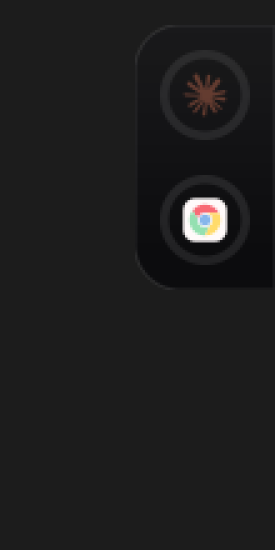
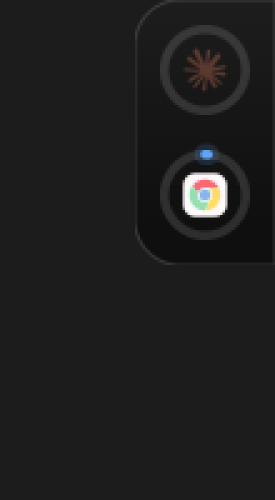
Translucent panel, and stop sending tokens already known to be dead
The panel takes its opacity from LINOTCH_OPACITY (default 0.74), clamped at
0.35 — below that the text stops being readable over a light window.

The bigger fix is behind it. `expiresAt` in the credential file was read only to
word the error message; the request went out regardless, earned a 401, and
repeated failed auth is precisely what the usage endpoint answers with a
Retry-After measured in hours. So a stale credential was manufacturing the rate
limit that then also blocked the request that would have worked after a refresh.
A token whose own expiry has passed is now not sent at all, and Error::Expired
says what actually fixes it.

diff --git a/src/providers.rs b/src/providers.rs
@@ -29,9 +29,11 @@ pub struct Window {
 pub enum Error {
     /// No usable credential on this machine. Not a failure — the tool is signed out.
     NoCredential,
-    /// A credential exists but the vendor refused it. Kept apart from NoCredential
-    /// because the fix is different: this one is "use the tool once so it refreshes".
-    Rejected { code: u16, expired: bool },
+    /// The stored token's own expiry has passed. Detected locally — no request is
+    /// sent, see `Claude::read`.
+    Expired,
+    /// A credential looked current but the vendor refused it anyway.
+    Rejected { code: u16 },
     /// HTTP 429. `retry_after` is the vendor's own Retry-After in seconds — it is
     /// routinely far longer than any backoff we would guess (half an hour, where
     /// our cap was fifteen minutes), and ignoring it just keeps the limit alive.
@@ -43,11 +45,8 @@ impl std::fmt::Display for Error {
     fn fmt(&self, f: &mut std::fmt::Formatter<'_>) -> std::fmt::Result {
         match self {
             Error::NoCredential => write!(f, "signed out"),
-            Error::Rejected { code, expired: true } => write!(
-                f,
-                "token expired ({code}) — run the tool once and it refreshes"
-            ),
-            Error::Rejected { code, expired: false } => {
+            Error::Expired => write!(f, "token expired — run `claude` once to refresh it"),
+            Error::Rejected { code } => {
                 write!(f, "token rejected ({code}) — sign in with the tool itself")
             }
             Error::RateLimited { retry_after: Some(s) } => {
@@ -124,14 +123,14 @@ fn agent() -> ureq::Agent {
 /// for one reason: a 429's `Retry-After` header only survives if the response object
 /// does, and that header is the difference between backing off correctly and
 /// hammering a limit until it renews itself.
-fn interpret(resp: &mut ureq::http::Response<ureq::Body>, expired: bool) -> Result<Value, Error> {
+fn interpret(resp: &mut ureq::http::Response<ureq::Body>) -> Result<Value, Error> {
     let code = resp.status().as_u16();
     match code {
         200..=299 => resp
             .body_mut()
             .read_json()
             .map_err(|e| Error::Other(format!("parse: {e}"))),
-        401 | 403 => Err(Error::Rejected { code, expired }),
+        401 | 403 => Err(Error::Rejected { code }),
         429 => Err(Error::RateLimited {
             retry_after: resp
                 .headers()
@@ -195,13 +194,21 @@ impl Provider for Claude {
 
     fn read(&self) -> Result<Vec<Window>, Error> {
         let (token, expired) = Self::credential().ok_or(Error::NoCredential)?;
+        if expired {
+            // Do not send it. The reply would be a 401, and repeated failed auth is
+            // exactly what this endpoint answers with a rate limit — which then also
+            // blocks the request that *would* have worked once the token is
+            // refreshed. Re-reading the file is free, so this costs nothing to
+            // recover from.
+            return Err(Error::Expired);
+        }
         let mut resp = agent()
             .get("https://api.anthropic.com/api/oauth/usage")
             .header("Authorization", &format!("Bearer {token}"))
             .header("anthropic-beta", "oauth-2025-04-20")
             .call()
             .map_err(|e| Error::Other(e.to_string()))?;
-        let v = interpret(&mut resp, expired)?;
+        let v = interpret(&mut resp)?;
 
         let mut out = Vec::new();
         if let Some(arr) = v.get("limits").and_then(|x| x.as_array()) {
@@ -300,7 +307,7 @@ impl Provider for Codex {
             )
             .call()
             .map_err(|e| Error::Other(e.to_string()))?;
-        let v = interpret(&mut resp, false)?;
+        let v = interpret(&mut resp)?;
 
         let rl = v.get("rate_limit").unwrap_or(&v);
         let now = now_secs();

diff --git a/src/draw.rs b/src/draw.rs
@@ -29,12 +29,29 @@ const ROW_H: f64 = 36.0;
 const HEAD_H: f64 = 30.0;
 
 // One palette, so a colour is never invented halfway down the file.
-const BG: (f64, f64, f64, f64) = (0.043, 0.043, 0.051, 0.94);
-const HAIRLINE: (f64, f64, f64, f64) = (1.0, 1.0, 1.0, 0.10);
-const TRACK: (f64, f64, f64, f64) = (1.0, 1.0, 1.0, 0.09);
+const BG_RGB: (f64, f64, f64) = (0.043, 0.043, 0.051);
+const DEFAULT_OPACITY: f64 = 0.74;
+const HAIRLINE: (f64, f64, f64, f64) = (1.0, 1.0, 1.0, 0.15);
+const TRACK: (f64, f64, f64, f64) = (1.0, 1.0, 1.0, 0.13);
 const INK: (f64, f64, f64, f64) = (1.0, 1.0, 1.0, 0.95);
 const INK_DIM: (f64, f64, f64, f64) = (1.0, 1.0, 1.0, 0.44);
 const DIVIDER: (f64, f64, f64, f64) = (1.0, 1.0, 1.0, 0.07);
+
+/// Panel opacity, set once from the environment. A single read point rather than a
+/// parameter threaded through every drawing function, because nothing changes it
+/// after startup.
+static OPACITY: std::sync::OnceLock<f64> = std::sync::OnceLock::new();
+
+/// Clamped, not free: below about 0.35 the text stops being readable over a light
+/// window, and a notch nobody can read is not a notch.
+pub fn set_opacity(v: f64) {
+    let _ = OPACITY.set(v.clamp(0.35, 1.0));
+}
+
+fn bg() -> (f64, f64, f64, f64) {
+    let (r, g, b) = BG_RGB;
+    (r, g, b, *OPACITY.get().unwrap_or(&DEFAULT_OPACITY))
+}
 
 #[derive(Clone, Copy, Debug, PartialEq)]
 pub struct Rect {
@@ -156,7 +173,7 @@ fn rgba(cr: &cairo::Context, c: (f64, f64, f64, f64)) {
 /// rectangle" from "a surface".
 fn panel(cr: &cairo::Context, rect: Rect, corners: (f64, f64, f64, f64)) {
     rounded(cr, rect, corners);
-    rgba(cr, BG);
+    rgba(cr, bg());
     let _ = cr.fill_preserve();
     // A short fall of light from the top edge. Flat fill plus hairline reads as a
     // rectangle; this reads as a surface with a direction to it.
@@ -513,8 +530,20 @@ fn preview() {
     // draw() clears its own clip first, so the backdrop goes on underneath at the
     // end rather than being painted first and wiped.
     cr.set_operator(cairo::Operator::DestOver);
-    cr.set_source_rgb(0.13, 0.14, 0.16);
+    // Something with structure behind the panels, or "transparent" and "dark grey"
+    // look identical.
+    let g = cairo::LinearGradient::new(0.0, 0.0, w as f64, h as f64);
+    g.add_color_stop_rgb(0.0, 0.16, 0.18, 0.24);
+    g.add_color_stop_rgb(0.5, 0.35, 0.24, 0.30);
+    g.add_color_stop_rgb(1.0, 0.12, 0.20, 0.22);
+    cr.set_source(&g).unwrap();
     cr.paint().unwrap();
+    for i in 0..7 {
+        let x = 30.0 + i as f64 * 62.0;
+        cr.set_source_rgba(1.0, 1.0, 1.0, 0.05);
+        cr.rectangle(x, 20.0 + (i % 3) as f64 * 40.0, 44.0, 120.0);
+        cr.fill().unwrap();
+    }
     drop(cr);
 
     let mut f = std::fs::File::create("/tmp/linotch-preview.png").unwrap();

diff --git a/src/main.rs b/src/main.rs
@@ -67,6 +67,9 @@ fn main() {
         .ok()
         .and_then(|s| s.parse().ok())
         .unwrap_or(0.5);
+    if let Some(o) = std::env::var("LINOTCH_OPACITY").ok().and_then(|s| s.parse().ok()) {
+        draw::set_opacity(o);
+    }
 
     let shared = Arc::new(Mutex::new(Shared::default()));
     std::thread::spawn({
@@ -94,6 +97,7 @@ USAGE:
 ENVIRONMENT:
     LINOTCH_EDGE=right|left|top|bottom   screen edge to hug        (default: right)
     LINOTCH_OFFSET=0.0..1.0              position along that edge  (default: 0.5)
+    LINOTCH_OPACITY=0.35..1.0            panel opacity             (default: 0.74)
     LINOTCH_SURFACE=layer|x11|floating   override display-server detection",
         env!("CARGO_PKG_VERSION")
     );
@@ -210,7 +214,11 @@ fn worker(shared: Arc<Mutex<Shared>>) {
                     s.ring.note = "no limit windows reported".into();
                     s.next = now + POLL_OK;
                 }
-                Err(e @ (providers::Error::NoCredential | providers::Error::Rejected { .. })) => {
+                Err(
+                    e @ (providers::Error::NoCredential
+                    | providers::Error::Expired
+                    | providers::Error::Rejected { .. }),
+                ) => {
                     s.ring.health = Health::NeedsAuth;
                     s.ring.fraction = 0.0;
                     s.ring.rows.clear();

diff --git a/README.md b/README.md
@@ -97,7 +97,26 @@ linotch --help
 |---|---|---|
 | `LINOTCH_EDGE` | `right` | `right`, `left`, `top`, `bottom` |
 | `LINOTCH_OFFSET` | `0.5` | position along that edge, `0.0`–`1.0` |
+| `LINOTCH_OPACITY` | `0.74` | panel opacity, `0.35`–`1.0` |
 | `LINOTCH_SURFACE` | auto | `layer`, `x11`, `floating` |
+
+The panel is translucent, not blurred: blurring behind a surface needs the
+compositor's own protocol (`org_kde_kwin_blur` on KWin, nothing portable), and no
+client can do it for itself. Opacity is the part that is honest everywhere.
+
+## When a ring is missing
+
+`linotch --check` says why, per source. The usual answers:
+
+- **`token expired — run \`claude\` once to refresh it`** — `~/.claude/.credentials.json`
+  is written by the Claude Code **CLI**. If you only ever use Claude Code inside the
+  desktop app, that file is never refreshed and its access token goes stale within
+  hours. Running `claude` in a terminal once rewrites it. linotch deliberately does
+  not refresh it itself: it borrows credentials, it does not manage them.
+- **`rate limited — retry in …`** — the vendor's own `Retry-After`, waited out in
+  full. Repeated failed auth is what earns one, which is why a token already known
+  to be expired is never sent.
+- **`not installed`** — no credential file for that tool on this machine.
 
 ## Adding a provider
 
